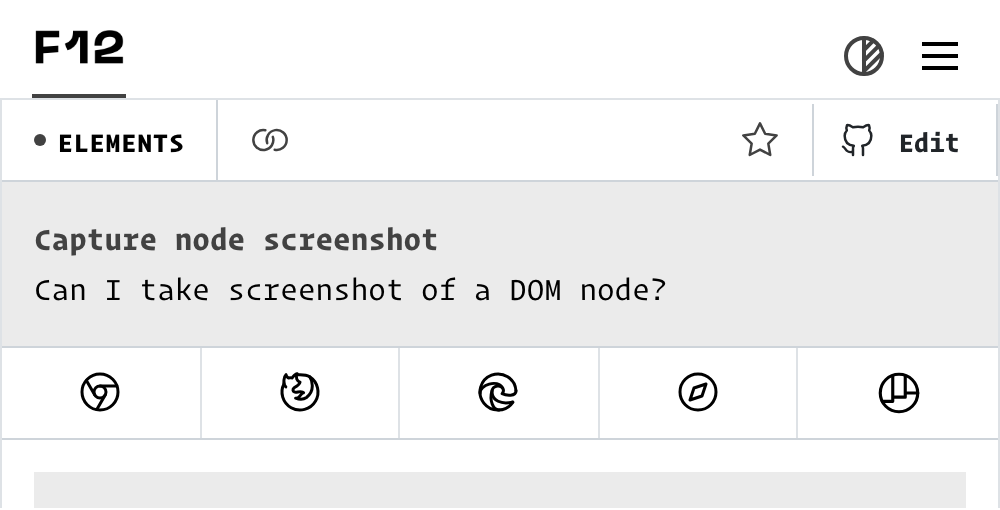
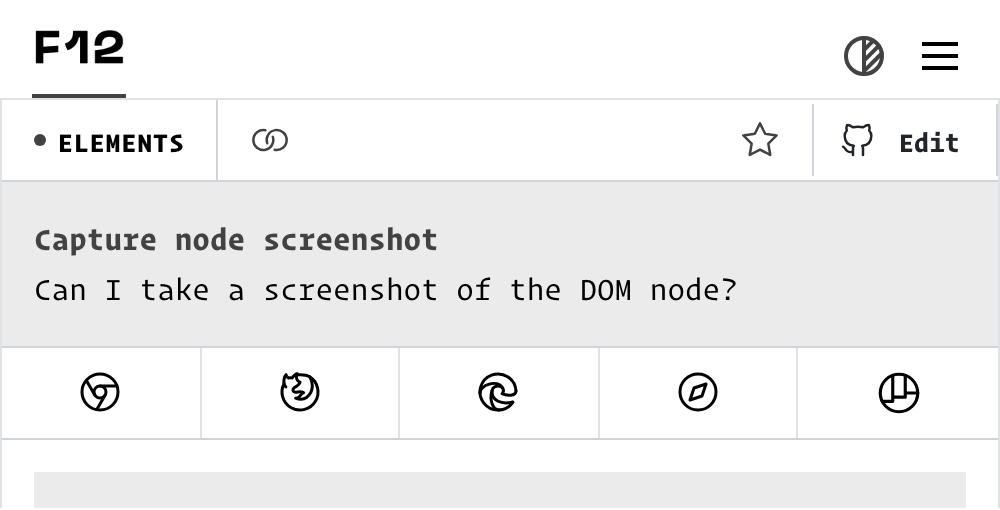
added references

Changed region(s): [[0.217, 0.5294, 0.558, 0.5882], [0.589, 0.5294, 0.744, 0.5882]]

diff --git a/README.md b/README.md
@@ -264,7 +264,7 @@ Can I capture a high definition screenshot of the page?
 ![](https://res.cloudinary.com/canidevtools/image/upload/l_watermark,w_200,o_5/capture-hd-screenshot-edge.png)
 
 ## Capture node screenshot
-Can I take screenshot of a DOM node?
+Can I take a screenshot of the DOM node?
 
 [Chrome](https://canidev.tools/capture-node-screenshot/chrome): 
 1. In the **Elements** panel, right click on the node and select "Capture node screenshot".
@@ -277,9 +277,8 @@ Can I take screenshot of a DOM node?
 
 
 [Edge](https://canidev.tools/capture-node-screenshot/edge): 
-1. In the **Elements** panel, right click on the node and select "Capture node screenshot".
-2. It retains visible background colour of elements with no background colour applied.
-
+- In the **Elements** panel, right click on the node and select "Capture node screenshot".
+- It retains visible background colour of the elements with no background colour applied."
 
 [Safari](https://canidev.tools/capture-node-screenshot/safari): 
 1. In the **Elements** panel, right click on the node in the DOM tree and click on "Capture Screenshot". 
